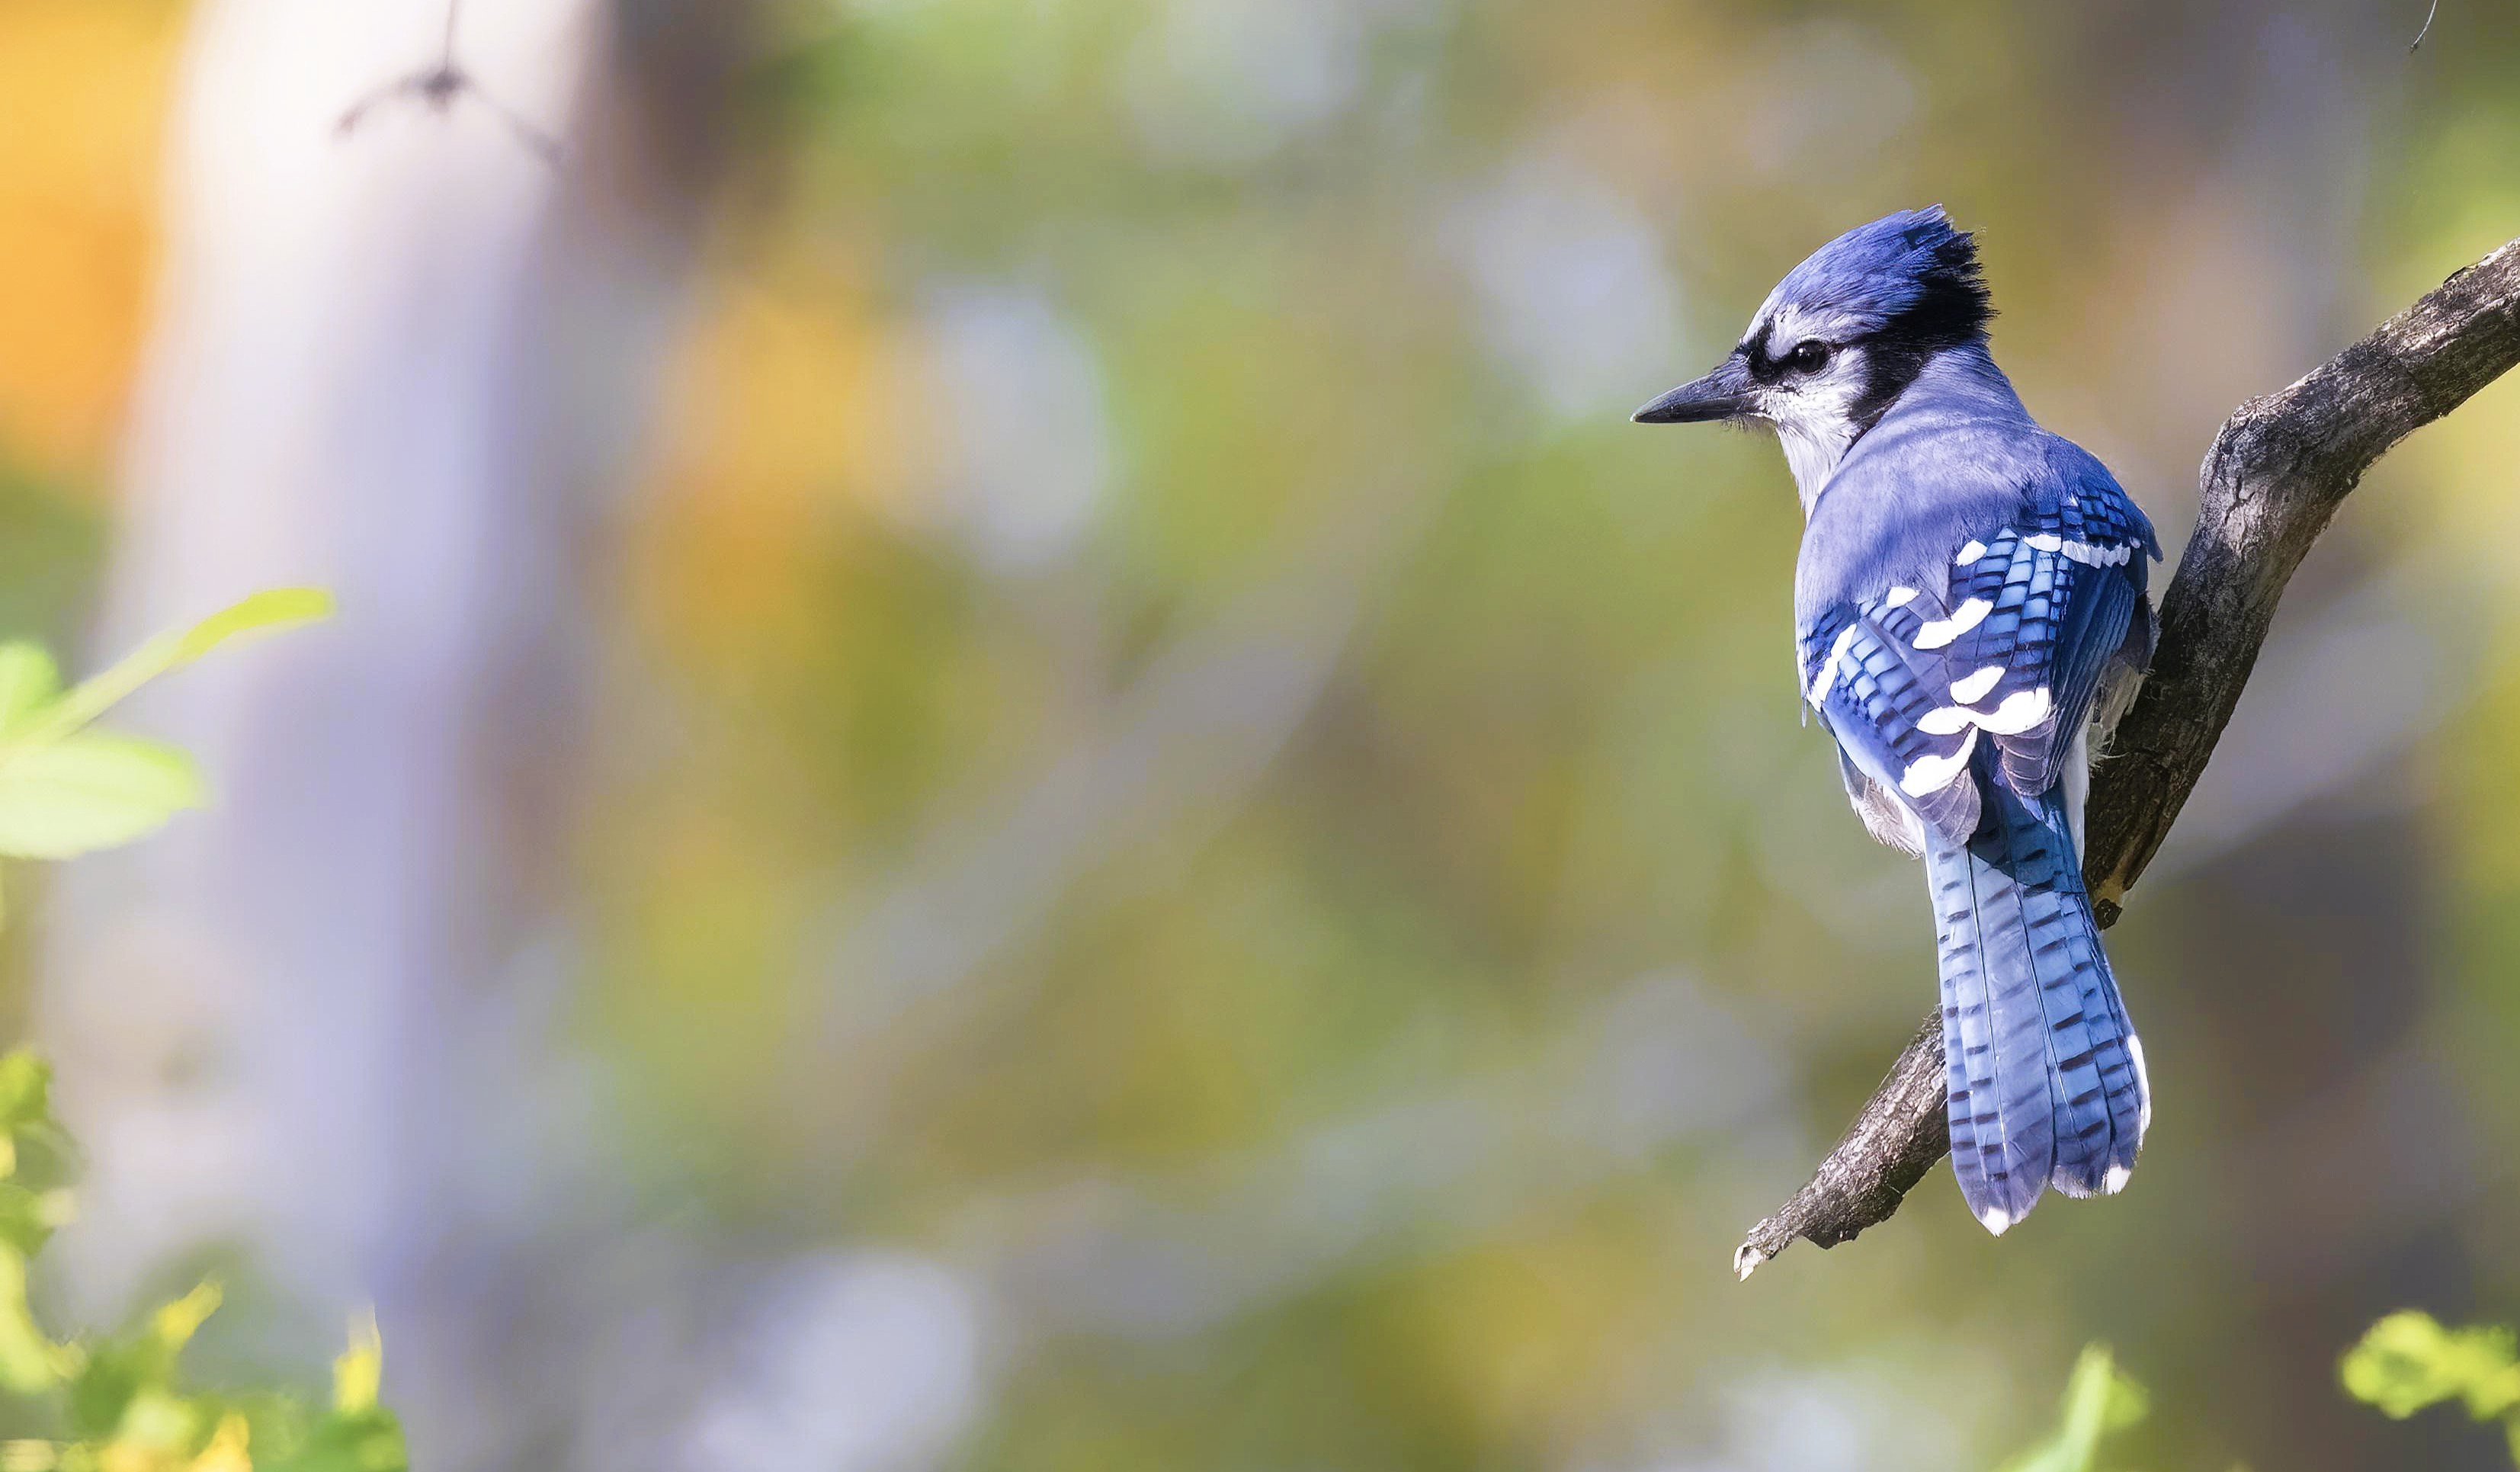
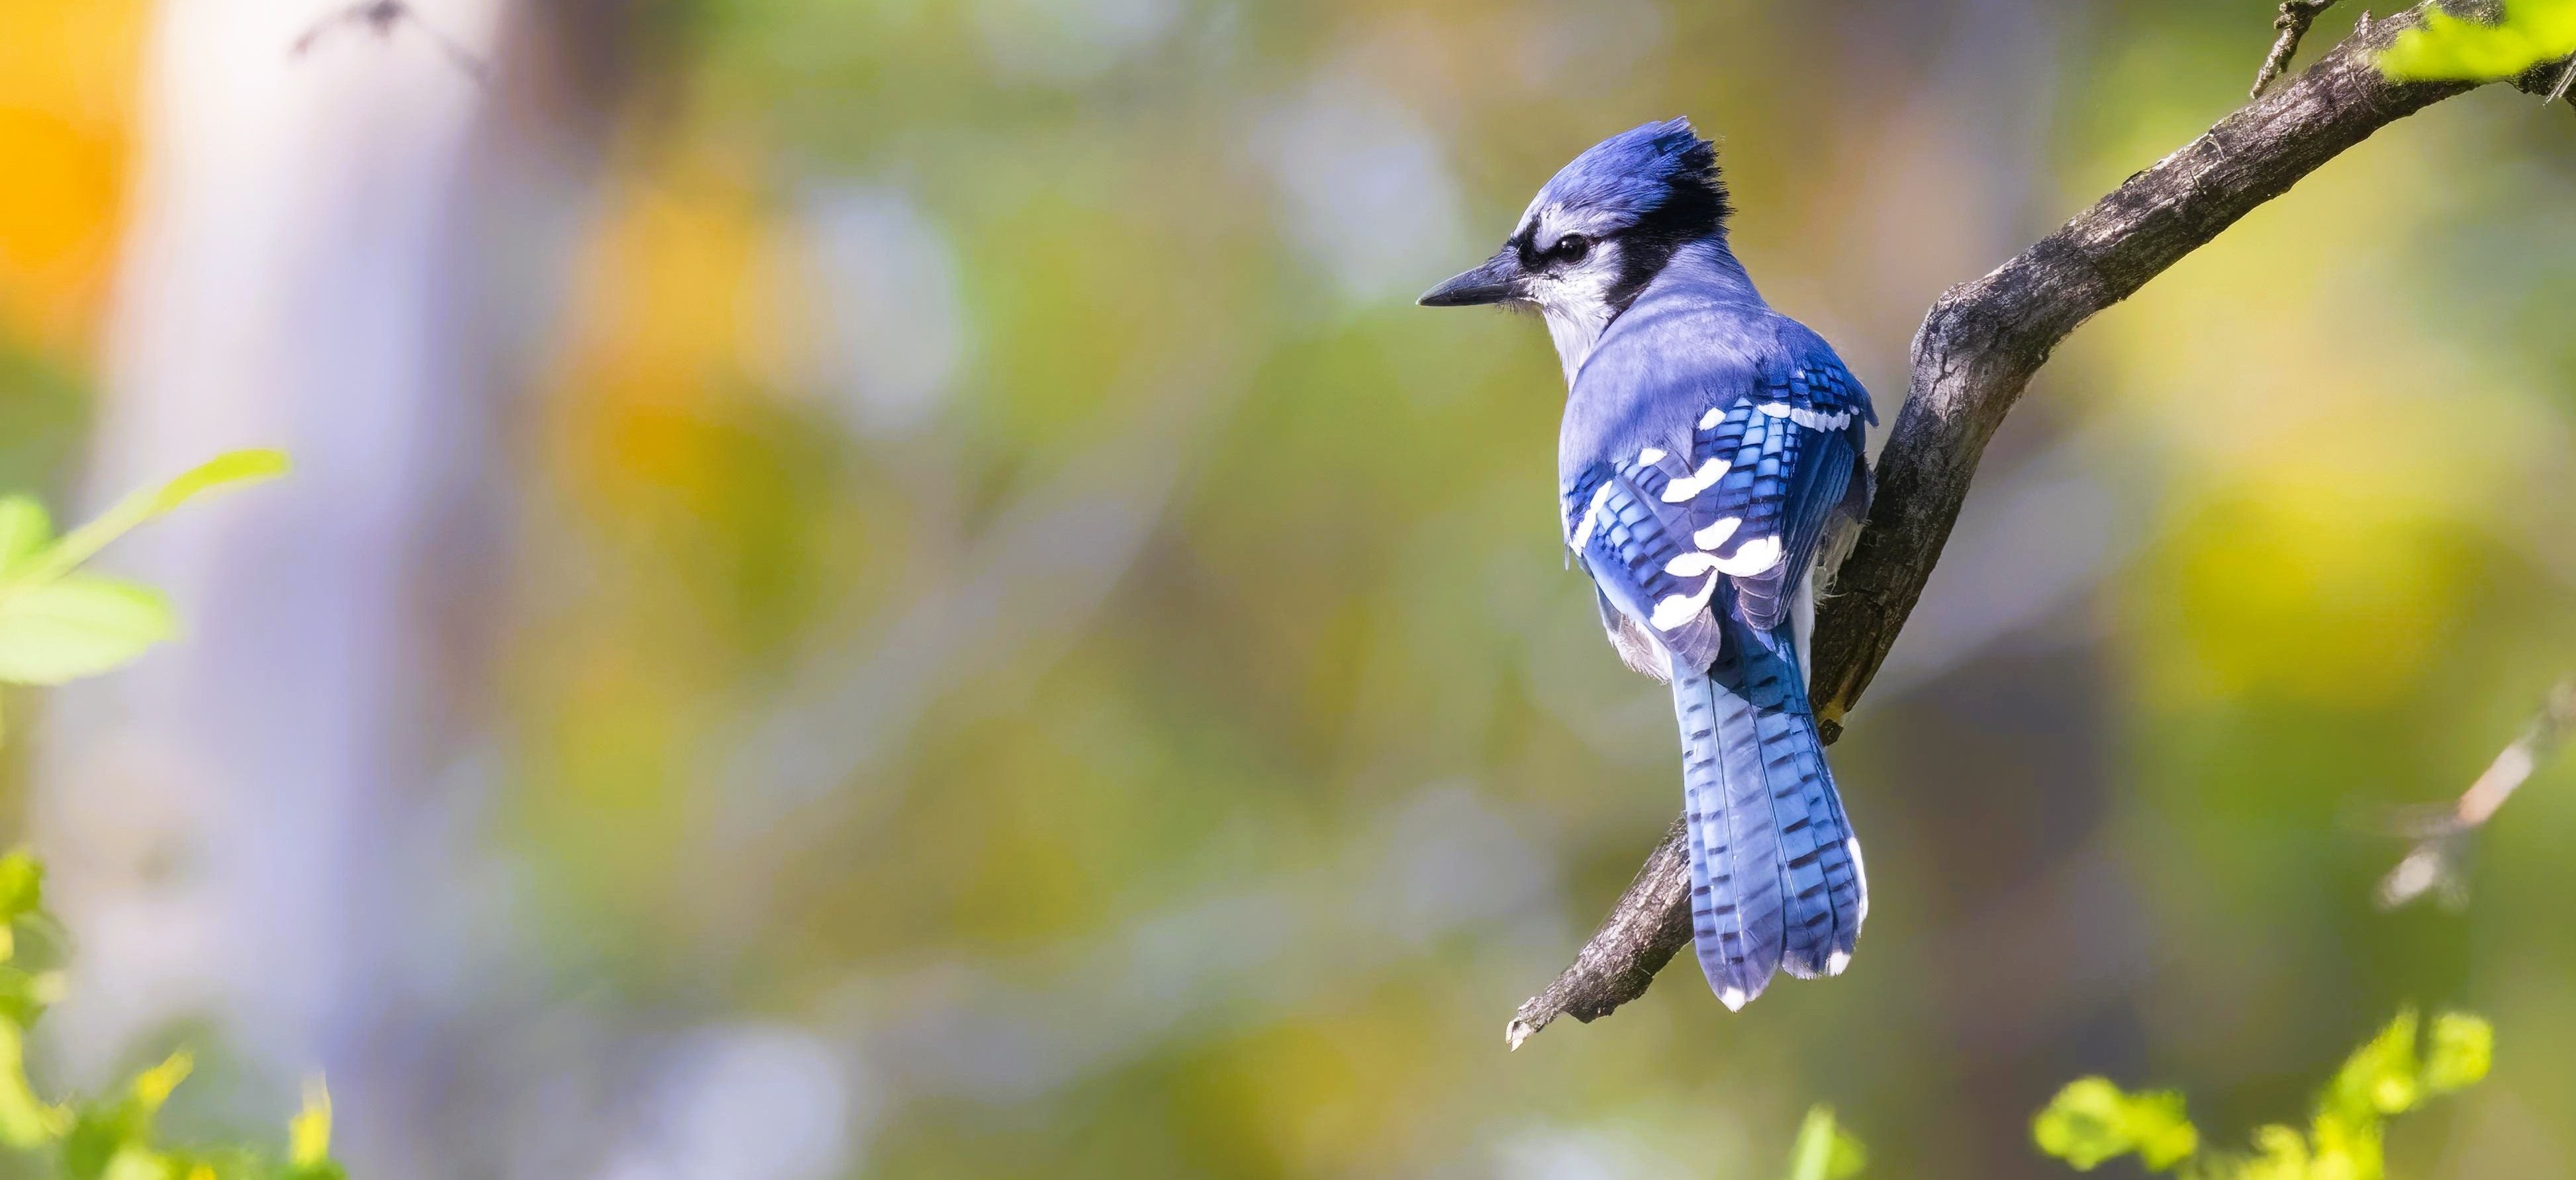
header image size

diff --git a/public/css/main.css b/public/css/main.css
@@ -97,24 +97,34 @@ section.bg-dark, .bg-dark {
   padding: 8rem 2rem;
   color: #fff;
   background-size: cover;
-  background-position: center;
-  border-bottom-left-radius: 1.5rem;
-  border-bottom-right-radius: 1.5rem;
+  background-position: center right;
   overflow: hidden;
   box-shadow: 0 4px 20px rgba(0, 0, 0, 0.2);
+  display: flex;
+  align-items: center;
 }
 
 @media (max-width: 1024px) {
   .hero-landing {
     padding: 4rem 1rem;
-    border-bottom-left-radius: 1rem;
-    border-bottom-right-radius: 1rem;
+    background-position: center;
+  }
+}
+
+@media (min-width: 1025px) {
+  .hero-landing {
+    padding: 0;
+    /* Matches original aspect ratio of blue_jay_1.jpg */
+    aspect-ratio: 3891 / 1783;
+    min-height: 450px;
   }
 }
 
 
 .hero-landing {
   background-image: url("../img/blue_jay_1.jpg");
+  background-repeat: no-repeat;
+  background-color: #020617;
 }
 
 .hero-overlay {